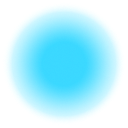
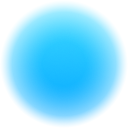
点亮工具新增亮点对齐功能。

diff --git a/LightPiano/main.py b/LightPiano/main.py
@@ -1,5 +1,6 @@
 # -*- coding: utf-8 -*-
 import tkinter
+from tkinter import *
 from tkinter import filedialog
 from midi_analyzer import MidiAnalyzer
 from key_light_maker import KeyLight
@@ -7,8 +8,121 @@ import midi
 import os
 import cv2
 from shutil import copyfile
+from PIL import Image, ImageTk
+import PIL
+import numpy as np
+class FixTool(tkinter.Toplevel):
+    def __init__(self,parent):
+        super().__init__()
+        self.parent = parent
+        self.screen_height = self.parent.screenheight
+        self.all_keys = {x:14*x for x in range(88)}    #以字典形式存储的键值对，key：value ,key为亮光索引0～87，value为当前亮光的横坐标0～1279
+        self.current_light_index = 0
+        self.bind('<Key>', self.printkey)
+        self.attributes("-fullscreen", True)
+        # self.update_idletasks()
+        print(self.winfo_width(),self.winfo_height())
+        real_height = self.winfo_height()
+        self.packUI()
+        self.update_idletasks()
 
+    def resize_image(self,img,target_width):
+        w, h = img.size
+        w_new = int(target_width)
+        h_new = int((h / w) * w_new)
+        resized_img = img.resize((w_new, h_new),resample=Image.BILINEAR)
+        return resized_img
+    def load_piano_img(self):
+        origin_img = Image.open('./piano_img.png')
+        if origin_img.mode == 'RGBA':
+            png = origin_img
+            background = Image.new('RGBA', png.size, (255, 255, 255))
+            alpha_composite = Image.alpha_composite(background, png)
+            origin_img = alpha_composite
 
+        resized_img = self.resize_image(origin_img, 1280)#1280*720
+        return resized_img
+    def add_lights(self,canvas):
+        #canvas size should be 1280*720
+        kl = KeyLight([], dst='', fps=1,width=1280)
+        kl.draw_pic2(kl.piano_key_status[0],split_key=True,position=self.all_keys)
+        frame = kl.canvas
+        img = PIL.Image.fromarray(frame)
+        canvas.paste(img)
+        c = np.array(canvas)
+        return c
+    def packUI(self):
+        piano_img = self.load_piano_img().convert('RGBA')
+        self.canvas = self.add_lights(piano_img)
+        c = PIL.Image.fromarray(self.canvas).convert('RGB')
+        img = ImageTk.PhotoImage(c)
+        # img = self.canvas
+        # _,w = img._PhotoImage__size
+        # w = int(img._PhotoImage__size[0])
+        # frm_0 = tkinter.Frame(self,width=w)
+        # frm_0.pack(side='left')
+
+        frm_L = tkinter.Frame(self)
+        self.label = Label(frm_L, image=img)
+        self.label.photo = img
+        self.label.pack()
+        frm_L.pack(side='left')
+
+        frm_R = tkinter.Frame(self)
+        self.label2 = Label(frm_R)
+        self.label2['text'] = '请设置'
+        self.label2.pack()
+        frm_R.pack(side='left')
+    def update_index(self,plus=1):
+        #更新亮光索引
+        self.current_light_index += plus
+        if self.current_light_index > 88-1:
+            self.current_light_index = 0
+        if self.current_light_index < 0:
+            self.current_light_index = 88-1
+    def update_key_position(self,key_index,plus=1):
+        self.all_keys[key_index]+=plus
+    def printkey(self,event):
+        print('你按下了: ' + event.char,'keycode:',event.keycode)# <KeyPress event state=Mod3 keysym=KP_Enter keycode=4980739 char='\x03' delta=4980739 x=-776 y=-53>
+        print(event)
+        next_light_keys=['Down']
+        previous_light_keys=['Up']
+        move_right_keys = ['Right']
+        move_left_keys = ['Left']
+        exit_keys = ['Escape']
+        if(event.keysym in next_light_keys):
+            self.update_index(plus=1)
+            print('当前琴键：', self.current_light_index)
+        elif(event.keysym in previous_light_keys):
+            self.update_index(plus=-1)
+            print('当前琴键：', self.current_light_index)
+        elif(event.keysym in move_right_keys):
+            self.update_key_position(key_index=self.current_light_index,plus=1)
+            print('亮光右移')
+        elif(event.keysym in move_left_keys):
+            self.update_key_position(key_index=self.current_light_index,plus=-1)
+            print('亮光左移')
+
+        elif(event.keysym in exit_keys):
+            self.destroy()
+        # img = ImageTk.PhotoImage(self.all_scores[self.current_light_index])
+        # self.label.configure(image=img)
+        # self.label.photo = img
+        #
+        # img2 = ImageTk.PhotoImage(self.all_scores[self.current_light_index + 1])
+        # self.label2.configure(image=img2)
+        # self.label2.photo = img2
+    # def setup(self):
+    #     self.center_window(self.root, 600, 300)
+    #     self.root.minsize(300, 300)
+    #     self.root.maxsize(600, 600)
+    #     self.root.title('亮光位置修复工具')
+    # def center_window(self,root, width, height):
+    #     screenwidth = root.winfo_screenwidth()
+    #     screenheight = root.winfo_screenheight()
+    #     size = '%dx%d+%d+%d' % (width, height, (screenwidth - width) / 2, (screenheight - height) / 2)
+    #     print(size)
+    #     root.geometry(size)
 class App(tkinter.Frame):
     def __init__(self,master=None):
         super().__init__(master)
@@ -18,14 +132,12 @@ class App(tkinter.Frame):
         self.create_widgets()
 
     def create_widgets(self):
-        self.btn0 = tkinter.Button(self.root, text='选择midi文件', command=self.open_file)
-        self.label1 = tkinter.Label(self.root)
-        self.btn1 = tkinter.Button(self.root, text='开始导出按键亮光视频',command=self.do_actions)
-        self.label2 = tkinter.Label(self.root)
-        self.btn0.pack()
-        self.label1.pack()
-        self.btn1.pack()
-        self.label2.pack()
+        self.btn1 = tkinter.Button(self.root, text='选择midi文件', command=self.open_file).pack()
+        self.label1 = tkinter.Label(self.root).pack()
+        self.btn2 = tkinter.Button(self.root, text='开始导出按键亮光视频', command=self.do_actions).pack()
+        self.label2 = tkinter.Label(self.root).pack()
+        self.btn3 = tkinter.Button(self.root,text='修正亮光位置',command=self.show_fixtool).pack()
+
 
     def get_screen_size(self,window):
         return window.winfo_screenwidth(), window.winfo_screenheight()
@@ -36,6 +148,7 @@ class App(tkinter.Frame):
     def center_window(self,root, width, height):
         screenwidth = root.winfo_screenwidth()
         screenheight = root.winfo_screenheight()
+        self.screenheight = screenheight
         size = '%dx%d+%d+%d' % (width, height, (screenwidth - width) / 2, (screenheight - height) / 2)
         print(size)
         root.geometry(size)
@@ -74,7 +187,9 @@ class App(tkinter.Frame):
         if os.path.isfile(output_tmp_file_name):
             os.remove(output_tmp_file_name)
         self.label2['text'] = '视频导出完成,文件存储为：\n'+output_file_name
-
+    def show_fixtool(self):
+        fix_tool = FixTool(self)
+        self.wait_window(fix_tool)
     def do_actions(self):
         self.analysie_midi()
         self.export_video()

diff --git a/LightPiano/key_light_maker.py b/LightPiano/key_light_maker.py
@@ -13,9 +13,11 @@ class KeyLight():
         self.piano_key_status = piano_key_status
         self.fps = fps
         self.dst = dst
-        self.add_examine_status()
+        self.add_examine_status() #增加检测状态，用来与弹琴视频对齐用。
         spot = cv2.imread('spot1.png',flags=-1)
         self.spot = cv2.resize(spot, dsize=(int(self.key_width), int(self.key_width)))
+        spot2 = cv2.imread('spot2.png',flags=-1)
+        self.spot2 = cv2.resize(spot2, dsize=(int(self.key_width), int(self.key_width)))
         ped = cv2.imread('ped.png',flags=-1)
         h, w, _ = ped.shape
         h_ = self.key_width
@@ -31,19 +33,56 @@ class KeyLight():
                 cv2.circle(self.canvas,center,radius,color=(0),thickness=-1)
             else:
                 cv2.circle(self.canvas,center,radius,color=(0,255,0),thickness=-1)
-    def draw_pic(self,status):
+    def draw_pic(self,status,split_key=False):
         self.clean_canvas()
         key_status = status[0:-1]# first 88 keys
         pedal_status = status[-1]
         for i,key in enumerate(key_status):
-
             if key > 0:
                 y1 = int((self.canvas_height- self.key_width))
                 y2 = y1 + self.key_width
                 x1 = int(i*self.key_width)
                 x2 = int((i+1)*self.key_width)
                 bg = Image.fromarray(self.canvas)
-                s = Image.fromarray(self.spot)
+                if split_key:
+                    if i%12 in [1,4,6,9,11]:
+                        s = Image.fromarray(self.spot2)
+                    else:
+                        s = Image.fromarray(self.spot)
+                else:
+                    s = Image.fromarray(self.spot)
+                bg.paste(s,box=(x1,y1),mask=s)
+                self.canvas = np.array(bg)
+            else:
+                pass
+                # cv2.circle(self.canvas,center,radius,color=(0,255,0),thickness=-1)
+
+        if pedal_status > 0:
+            # center = (int((len(key_status)-1+1/2)*self.key_width),int(self.canvas_height/2))
+            # radius = int((self.key_width * 0.8)/2)
+            # cv2.circle(self.canvas, center, radius, color=(0, 255, 0), thickness=-1)
+            bg = Image.fromarray(self.canvas)
+            s = Image.fromarray(self.ped)
+            bg.paste(s, box=(int((len(key_status)-3)*self.key_width),int(self.canvas_height*0.3)), mask=s)
+            self.canvas = np.array(bg)
+    def draw_pic2(self,status,split_key=False,position={}):
+        self.clean_canvas()
+        key_status = status[0:-1]# first 88 keys
+        pedal_status = status[-1]
+        for i,key in enumerate(key_status):
+            if key > 0:
+                y1 = int((self.canvas_height- self.key_width))
+                y2 = y1 + self.key_width
+                x1 = position[i]
+                x2 = int((i+1)*self.key_width)
+                bg = Image.fromarray(self.canvas)
+                if split_key:
+                    if i%12 in [1,4,6,9,11]:
+                        s = Image.fromarray(self.spot2)
+                    else:
+                        s = Image.fromarray(self.spot)
+                else:
+                    s = Image.fromarray(self.spot)
                 bg.paste(s,box=(x1,y1),mask=s)
                 self.canvas = np.array(bg)
             else:
@@ -63,14 +102,30 @@ class KeyLight():
         self.canvas = np.zeros(shape=(self.canvas_height,self.canvas_width,4),dtype=np.uint8)
         self.canvas += 0xEB # 背景颜色
     def add_examine_status(self):
-        examine_status = [1]*len(self.piano_key_status[0])
-        for i in range(self.fps):
+        try:
+            examine_status = [1]*len(self.piano_key_status[0])
+        except:
+            examine_status = [1] * 88
+        for i in range(2*self.fps):#插入两秒钟的验证态
             self.piano_key_status.insert(0,examine_status)
     def run(self):
         # fourcc = cv2.VideoWriter_fourcc(*'X264')# X264 quality is better than MJPG
         out = cv2.VideoWriter(self.dst, 0x00000021, self.fps, (self.canvas_width, self.canvas_height))
-        for s in self.piano_key_status:
-            self.draw_pic(s)
+        for index,s in enumerate(self.piano_key_status):
+            if index <= 2*self.fps:#前两秒单独画
+                self.draw_pic(s,split_key=True)
+            else:
+                self.draw_pic(s)
             frame = self.canvas
             out.write(frame)
         out.release()
+if __name__ == '__main__':
+    # 单元测试
+    from midi_analyzer import MidiAnalyzer
+    import midi
+    pattern = midi.read_midifile('tk.mid')
+    ma = MidiAnalyzer(pattern)
+    piano_key_status = ma.run()
+    fps = ma.fps
+    kl = KeyLight(piano_key_status,dst='./tmp.mp4',fps=fps)
+    kl.run()

diff --git a/LightPiano/readme.md b/LightPiano/readme.md
@@ -2,5 +2,13 @@
 FF 51 03 后面跟的三组（6个）十六进制码就是速度信息  
 转换过来就是一个四分音符所占的时值，单位是微秒
 
+TODO:
+搞一个可视化的音符位置调节工具，然后弄一个配置文件出来，记录着88个音符x方向的位置。以期和视频内的键盘位置完美对应。
+后期再做按键亮光的时候，可以直接加载配置文件，进行微调即可。
+
+准备数据：亮点配置文件，视频截图一张
+
+
+
 参考：
 http://www.360doc.com/content/17/0205/08/11411827_626609322.shtml
